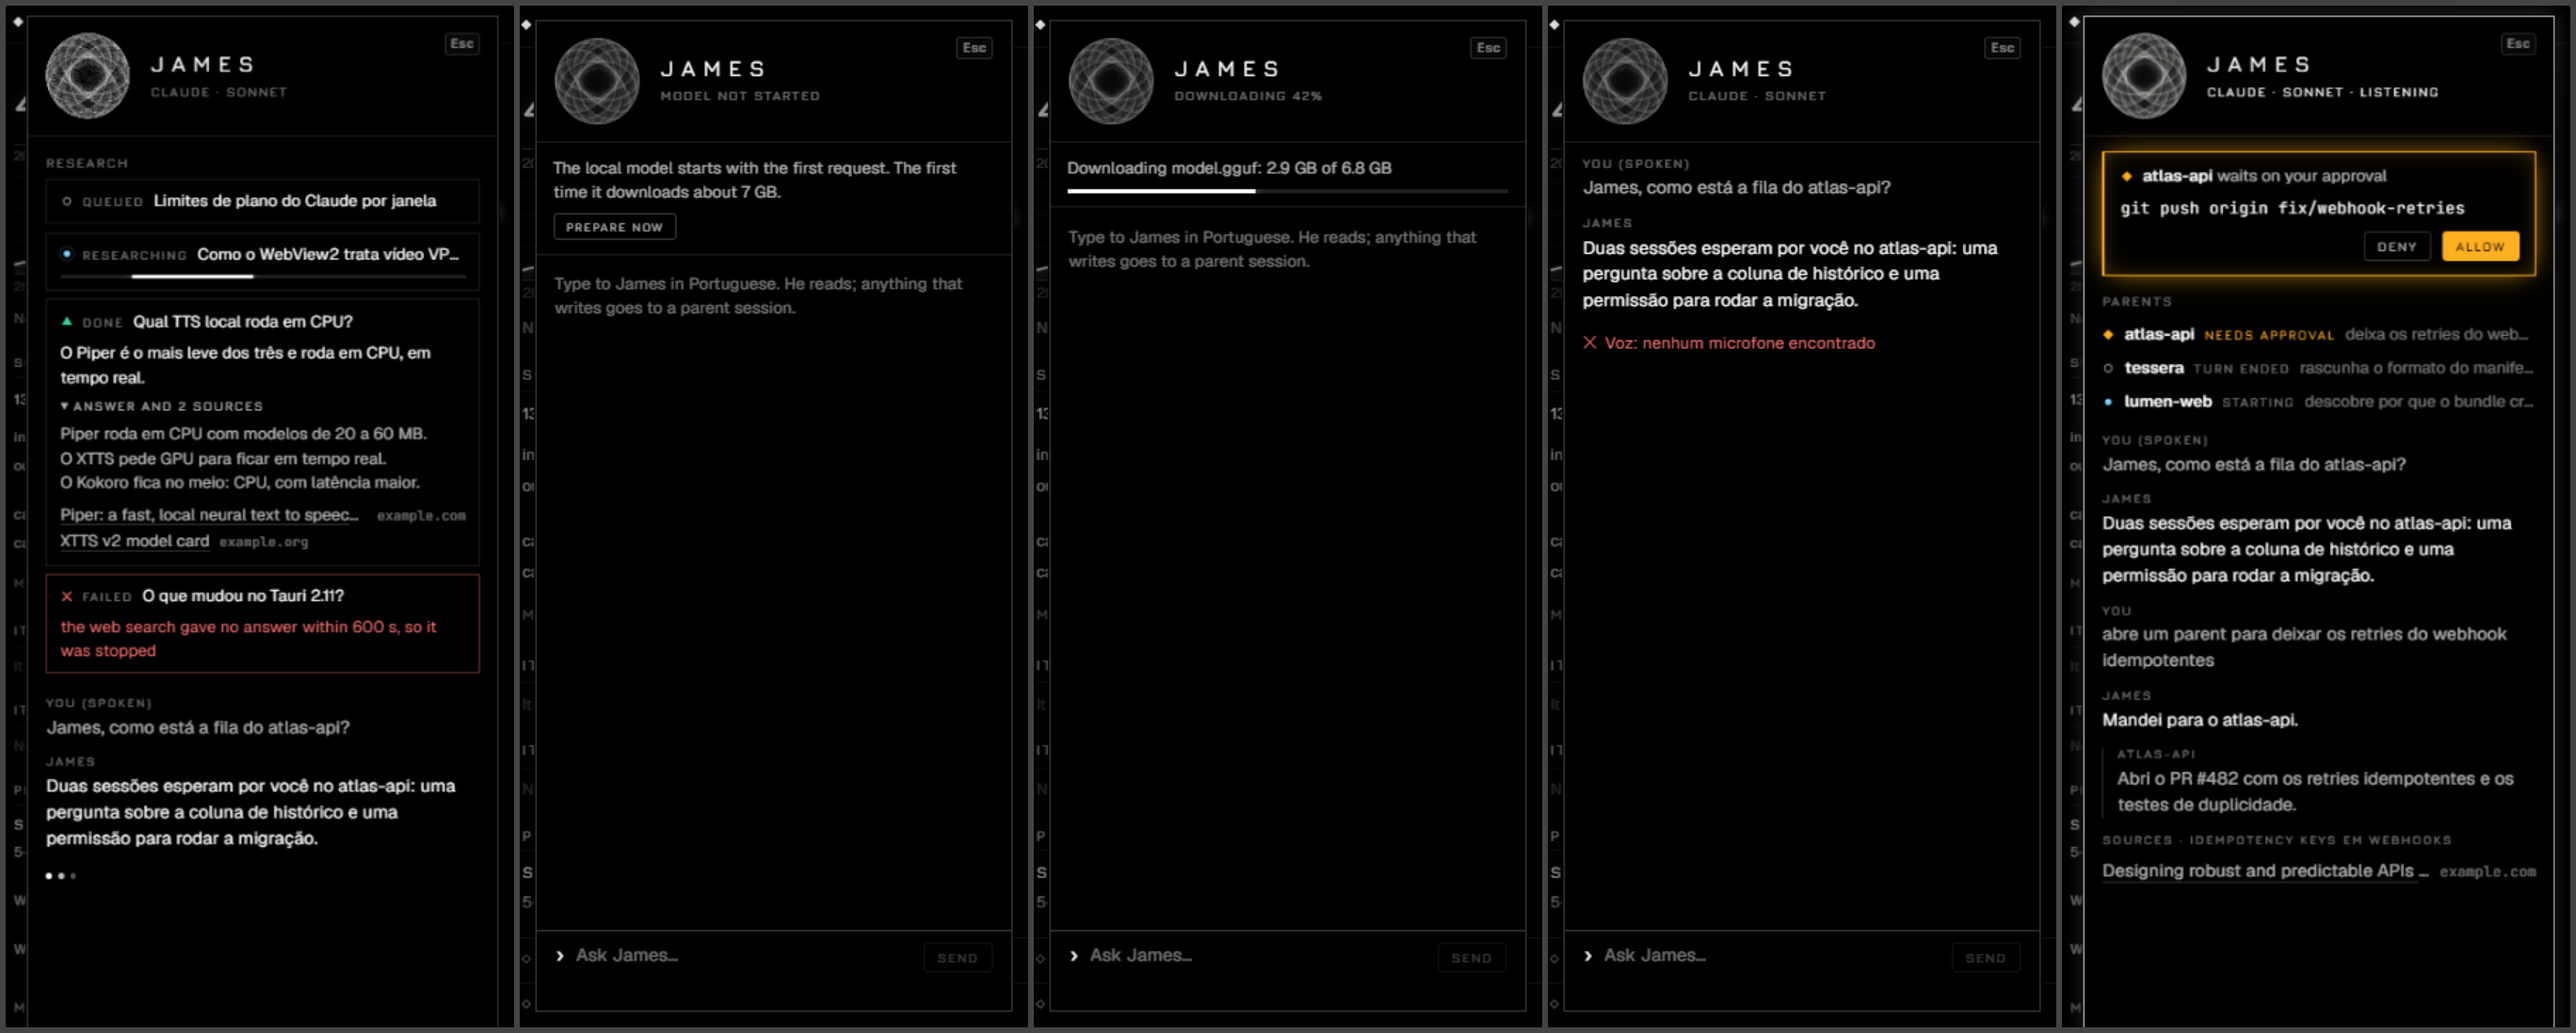
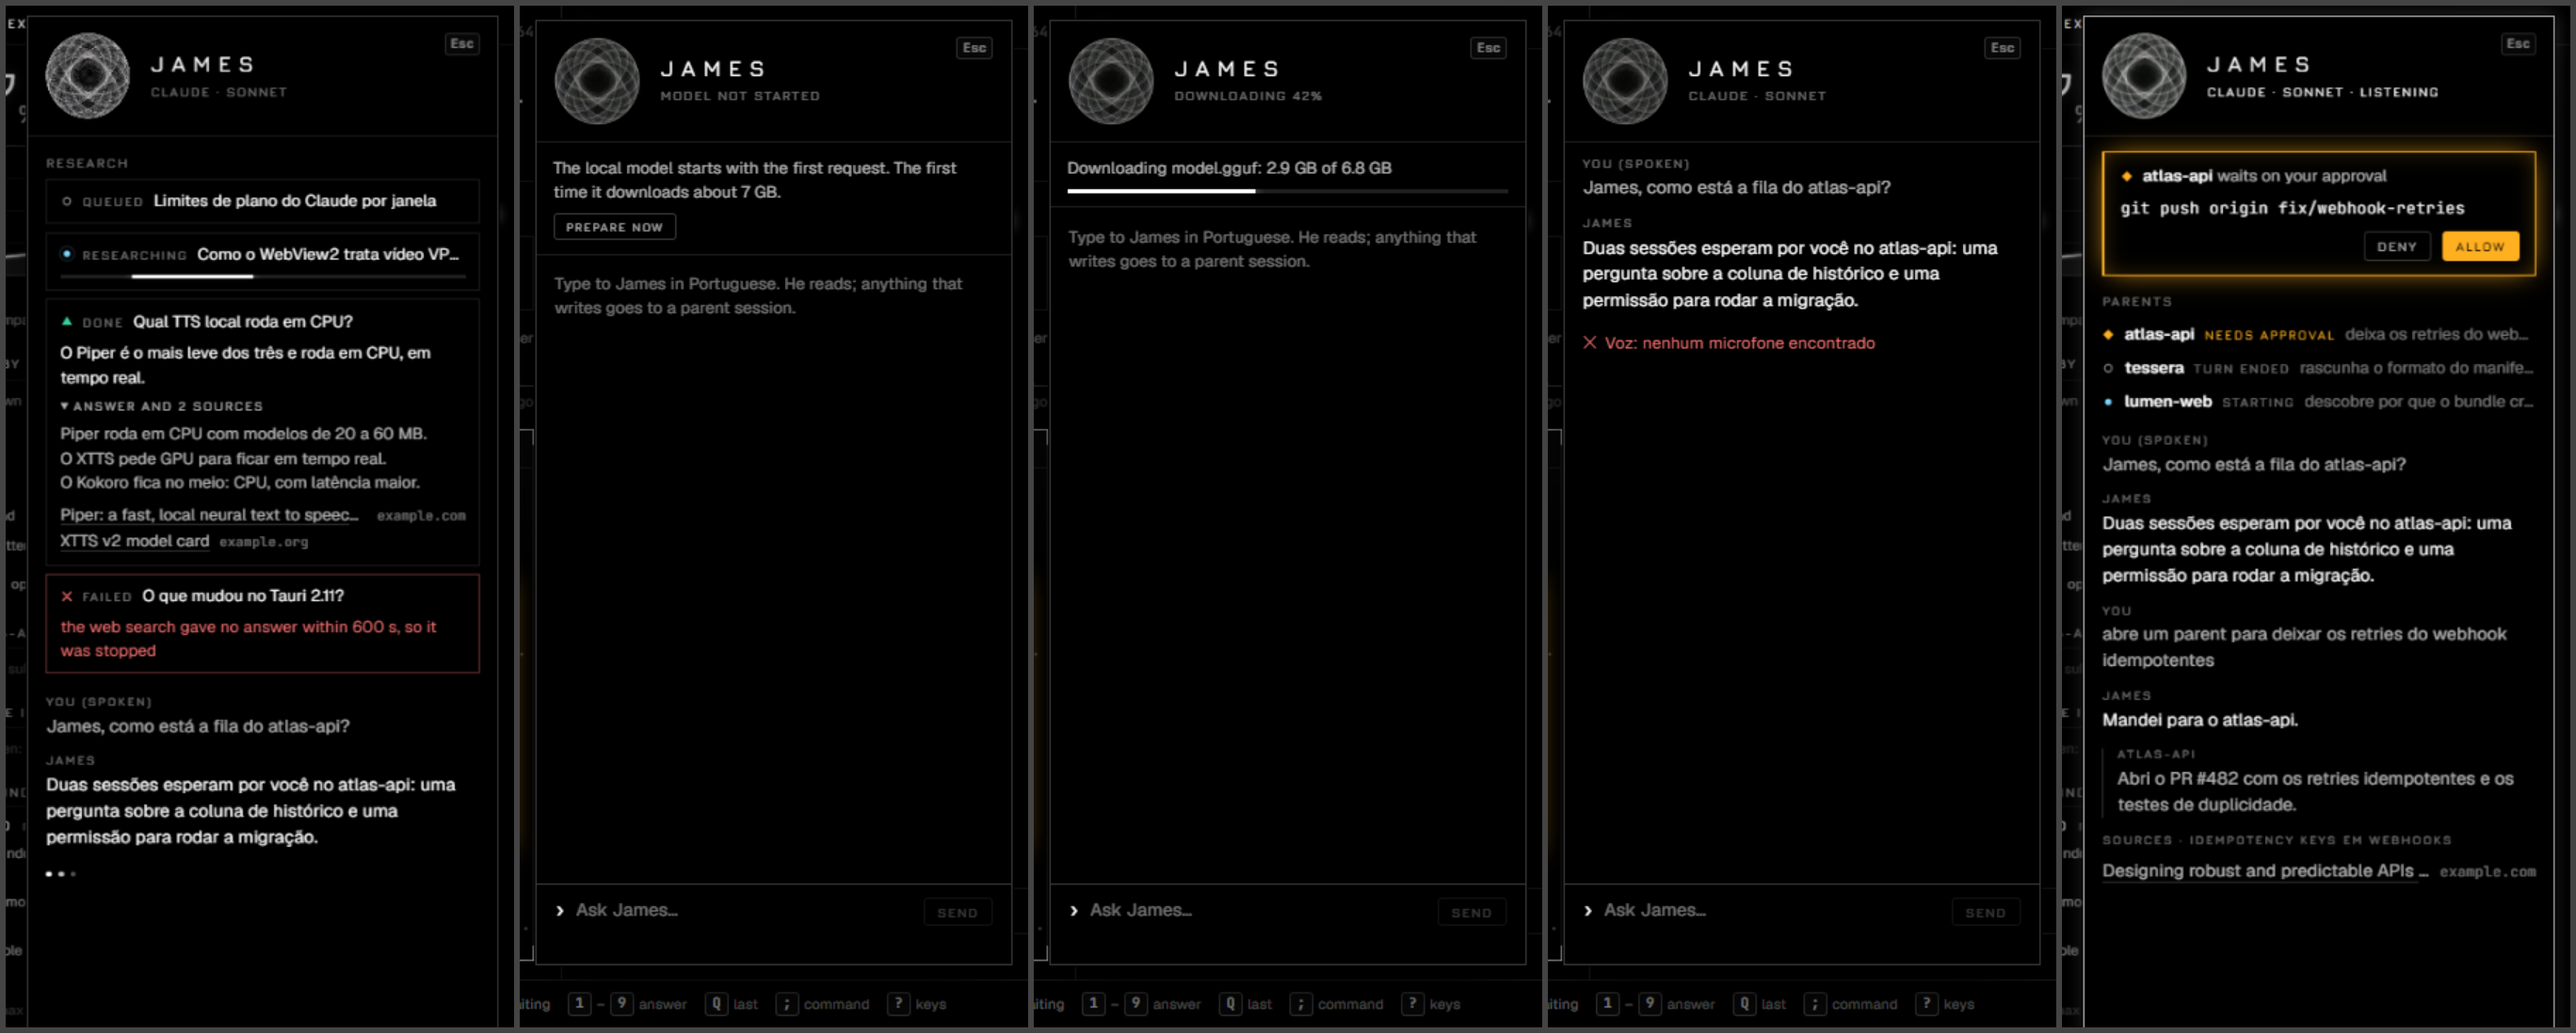
overlays: on the landed frame, clear of its foot and compact in its top bar
The frame landed on the base with a foot (the command line and the keys) and a
full top bar. The docked presence and the panel stand above the foot. In a top
bar the chord shows only at the widest root size, and at the smallest the word
for what James is doing stands for his name. The pictures are retaken on it.

diff --git a/src/jarvis/panel/panel.css b/src/jarvis/panel/panel.css
@@ -29,6 +29,15 @@
 .mn .jv-presence-need > svg { width: 0.9em; height: 0.9em; fill: currentColor; }
 .mn .jv-presence-need > b { font-size: 1.25em; letter-spacing: 0; }
 .mn .jv-presence .mn-kbd { font-size: 1em; letter-spacing: 0; text-transform: none; }
+/* In a top bar the chord is three keys wide where the others are one: below the widest root
+   size it gives its place to the fleet and the plan windows, and stays in the title. */
+@media (max-width: 2299px) { .mn [data-top-bar] .jv-presence .mn-kbd { display: none; } }
+/* At the smallest root size the bar is full: while James is doing something the word stands
+   for him beside his orb, and his name comes back at rest. */
+@media (max-width: 1599px) {
+  .mn [data-top-bar] .jv-presence { gap: 0.6em; padding-right: 0.8em; }
+  .mn [data-top-bar] .jv-presence:not([data-james='rest']) .jv-presence-name { display: none; }
+}
 
 /* The thread orb, small. Six turns of one thread round a sphere. */
 .mn .jv-thread { flex: none; width: 2em; height: 2em; overflow: visible; fill: none; stroke: currentColor; stroke-width: 1px; }
@@ -45,6 +54,8 @@
   position: fixed; inset: auto 1em 1em auto; z-index: 58;
   overflow: visible; background: none;
 }
+/* Over a frame that has a foot (its command line and keys), the dock stands above it. */
+body:has(.mn .frame-foot) .mn.jv-dock { bottom: 3.5em; }
 .mn.jv-dock .jv-presence { background: var(--void); box-shadow: 0 0 0 1px #000, 0 0.6em 2em #000; }
 .mn.jv-dock .jv-presence[data-alive] { box-shadow: 0 0 0 1px #000, var(--glow-soft); }
 
@@ -62,6 +73,8 @@
 }
 .mn.jv-panel[data-voice='listening'], .mn.jv-panel[data-voice='speaking'] { border-color: var(--ink-2); box-shadow: 0 0 0 1px #000, 0 1.4em 5em #000, var(--glow-soft); }
 @keyframes jv-open { from { transform: translateX(0.8em); opacity: 0; } }
+/* The frame's foot keeps its command line and keys in sight under the panel. */
+body:has(.mn .frame-foot) .mn.jv-panel { bottom: 3.5em; }
 
 /* The head: the orb, his name, who answers and what the voice is doing. */
 .mn .jv-head { display: flex; flex: none; align-items: center; gap: 0.9em; padding: 0.7em 1em 0.7em 0.7em; border-bottom: 1px solid var(--line); }

diff --git a/src/jarvis/panel/sheet.tsx b/src/jarvis/panel/sheet.tsx
@@ -6,7 +6,9 @@
 // The words are synthetic, as the sample world's are. James speaks Portuguese.
 
 import { createRoot, type Root } from 'react-dom/client'
+import { flushSync } from 'react-dom'
 import { shortcutLabel } from '../../actions/chords'
+import { fitFleet } from '../../frame/TopBar'
 import type { ParentRef } from '../parent'
 import { createJarvisStore, foldParent, foldResearch, type JarvisState, type Line, type Parent, type ResearchRun } from '../store'
 import { jamesStore } from './james'
@@ -85,7 +87,10 @@ export function placeInTopBar(): void {
   const host = bar.appendChild(document.createElement('span'))
   host.style.cssText = 'display: inline-flex; flex: none; margin-left: 0.4em'
   placed = createRoot(host)
-  placed.render(<JamesPresence />)
+  flushSync(() => placed!.render(<JamesPresence />))
+  // The bar fits its fleet to what stands beside it when it draws; this presence came after.
+  const fleet = bar.querySelector<HTMLElement>('.frame-fleet')
+  if (fleet) fitFleet(fleet)
 }
 
 /** Every state his presence has, each over a store of its own, in a strip under the top bar. */
